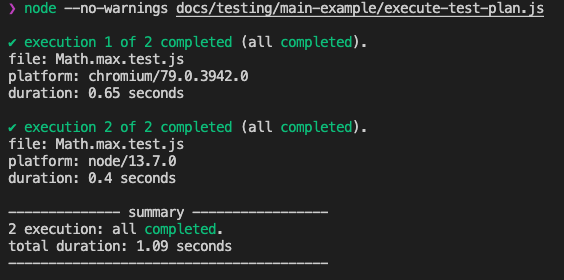
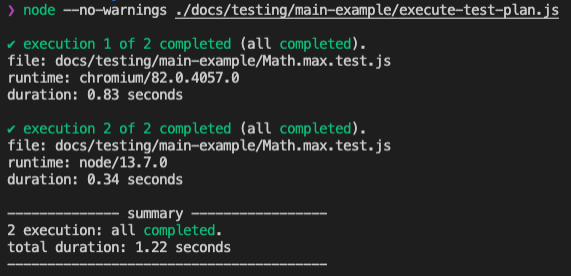
update main test plan screenshot

diff --git a/docs/testing/main-example/execute-test-plan.js b/docs/testing/main-example/execute-test-plan.js
@@ -1,9 +1,10 @@
 import { executeTestPlan, launchNode, launchChromiumTab } from "@jsenv/core"
 
 executeTestPlan({
-  projectDirectoryUrl: new URL("./", import.meta.url),
+  logLevel: "debug",
+  projectDirectoryUrl: new URL("../../../", import.meta.url),
   testPlan: {
-    "./*.test.js": {
+    "./docs/testing/main-example/*.test.js": {
       browser: {
         launch: launchChromiumTab,
       },
